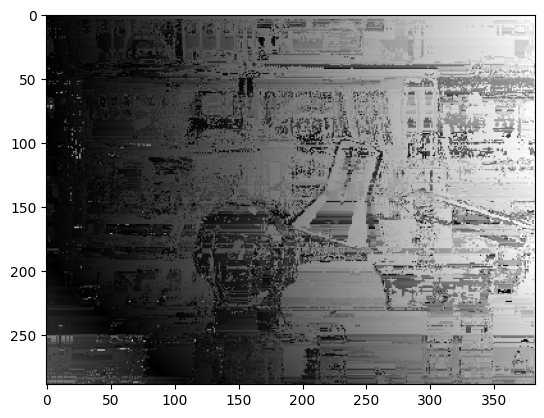
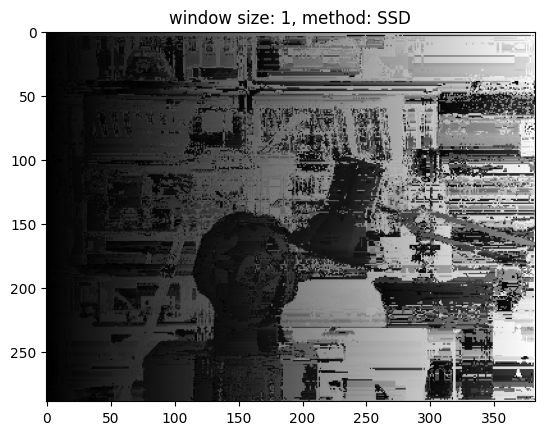
+docs

diff --git a/docs/block-matching.md b/docs/block-matching.md
@@ -1,10 +1,64 @@
 # Block Matching
 
+- [Block Matching](#block-matching)
+  - [Algorithm](#algorithm)
+  - [Parameters](#parameters)
+    - [Window Size](#window-size)
+    - [Search Range](#search-range)
+    - [Method](#method)
+  - [Results](#results)
+    - [First Image](#first-image)
+    - [Second Image](#second-image)
+    - [Third Image](#third-image)
+
 Block matching is a technique used in stereo vision to find the disparity between two images. The disparity is the difference in the horizontal position of a point in the two images. The disparity is used to construct a 3D model of the world.
 
 ## Algorithm
 
 The algorithm for block matching is as follows:
+
+```python
+def block_matching_imp1(imgL, imgR, window_size, method, numDisparities = 32):
+    # imgL and imgR are grayscale images
+    assert imgL.shape == imgR.shape
+    assert imgL.ndim == 2
+    assert imgR.ndim == 2
+    # window_size is the size of the window
+    assert window_size % 2 == 1
+    # numDisparities must be less then the width of the image
+    assert numDisparities < imgL.shape[1]
+    # method is the method used to compute the distance between two pixels
+    # method can be 'SAD' or 'SSD'
+    assert method in ['SAD', 'SSD']
+
+    win_size_over_2 = window_size//2
+    imgLP = np.pad(imgL, win_size_over_2, mode='constant')
+    imgRP = np.pad(imgR, win_size_over_2, mode='constant')
+    disparity = np.zeros(imgL.shape)
+
+    for r in range(win_size_over_2, imgLP.shape[0] - win_size_over_2):
+        for p in range(win_size_over_2, imgLP.shape[1] - win_size_over_2):
+            winL = imgLP[r - win_size_over_2 : r + win_size_over_2 + 1 , p - win_size_over_2 : p + win_size_over_2 + 1].astype('int32')
+            min_index = win_size_over_2
+            min_cost = np.Inf
+
+            for i in range(win_size_over_2, p + 1 - numDisparities if p > numDisparities else 0):
+                winR = imgRP[r - win_size_over_2 : r + win_size_over_2 + 1 , i - win_size_over_2 : i + win_size_over_2 + 1].astype('int32')
+
+                cost = 0
+                if method == 'SAD':
+                    cost = int(np.sum(np.absolute(winL - winR)))
+                elif method == 'SSD':
+                    cost = int(np.sum(np.square(winL - winR)))
+
+                if cost < min_cost:
+                    min_cost = cost
+                    min_index = i
+
+            disparity[r - win_size_over_2, p - win_size_over_2] = np.absolute(p - min_index)
+
+    return disparity
+```
 
 ## Parameters
 
@@ -12,7 +66,65 @@ The parameters for block matching are as follows:
 
 1. window size
 
-1. search range (`numDisparities`)
+    Window size parameter tuning is usually a trade-off between smoothness and detail. A larger window size will give smoother results, but will lose detail. A smaller window size will give more detail, but will be more noisy.
+
+    The following results show the effect of the window size.
+
+    ![window size  = 1][disp-full]
+
+    SAD, window size = 1
+
+    ![window size  = 1][disp-full-ssd]
+
+    SSD, window size = 1
+
+    ![window size  = 5][win-5]
+
+    SAD, window size = 5
+
+    ![window size  = 5][win-5-ssd]
+
+    SSD, window size = 5
+
+    ![window size  = 9][win-9]
+
+    SAD, window size = 9
+
+    ![window size  = 9][win-9-ssd]
+
+    SSD, window size = 9
+
+2. search range (`numDisparities`)
+
+    For each pixel, the search range is the number of pixels to the left and right of the current pixel to search for the best match. A larger search range will give more accurate results, but will be computationally expensive. A smaller search range will give less accurate results, but will be less computationally expensive.
+
+    We search the width of the image in this setup.
+
+    The following results show the effect of the search range.
+
+    ![range  = 10][disp-10]
+
+    SAD, range = 10
+
+    ![range  = 10][disp-10-ssd]
+
+    SSD, range = 10
+
+    ![range  = 100][disp-100]
+
+    SAD, range = 100
+
+    ![range  = 100][disp-100-ssd]
+
+    SSD, range = 100
+
+    ![ Full Range][disp-full]
+
+    SAD, full range
+
+    ![ Full Range][disp-full-ssd]
+
+    SSD, full range
 
 ### Window Size
 
@@ -22,6 +134,113 @@ The window size is the size of the window used to compare the blocks. The window
 
 The search range is the number of disparities to search for. The search range is the number of pixels to the left and right of the current pixel to search for the best match.
 
+### Method
+
+The method is the method used to compute the distance between two pixels. The method can be either `SAD` or `SSD`.
+
+SSD is the sum of the squared differences between the two pixels. SSD is sensitive to intensity offsets.
+SAD is the sum of the absolute differences between the two pixels.
+
+Results in the previous and next sections show the effect of the method.
+
 ## Results
 
+We show the dispaity maps for 3 images with different window sizes and methods.
 
+### First Image
+
+![first image left][img1-l]
+![first image right][img1-r]
+
+![sad window size 1][disp-full]
+
+SAD, window size = 1
+
+![ssd window size 1][disp-full-ssd]
+
+SSD, window size = 1
+
+![sad window size 5][win-5]
+
+SAD, window size = 5
+
+![ssd window size 5][win-5-ssd]
+
+SSD, window size = 5
+
+![sad window size 9][win-9]
+
+SAD, window size = 9
+
+![ssd window size 9][win-9-ssd]
+
+SSD, window size = 9
+
+### Second Image
+
+![second image left][img2-l]
+![second image right][img2-r]
+
+![sad 2 window size 1][sad-2-1]
+![ssd 2 window size 1][ssd-2-1]
+
+![sad 2 window size 5][sad-2-5]
+![ssd 2 window size 5][ssd-2-5]
+
+![sad 2 window size 9][sad-2-9]
+![ssd 2 window size 9][ssd-2-9]
+
+### Third Image
+
+![third image left][img3-l]
+![third image right][img3-r]
+
+![sad 3 window size 1][sad-3-1]
+![ssd 3 window size 1][ssd-3-1]
+
+![sad 3 window size 5][sad-3-5]
+![ssd 3 window size 5][ssd-3-5]
+
+![sad 3 window size 9][sad-3-9]
+![ssd 3 window size 9][ssd-3-9]
+
+<!-- Referrences -->
+
+[disp-10]: ./img/sad-1-10.png
+[disp-100]: ./img/sad-1-100.png
+[disp-10-ssd]: ./img/ssd-1-10.png
+[disp-100-ssd]: ./img/ssd-1-100.png
+[disp-full]: ./img/sad-1-full.png
+[disp-full-ssd]: ./img/ssd-1-full.png
+
+[win-5]: ./img/sad-full-5.png
+[win-5-ssd]: ./img/ssd-full-5.png
+[win-9]: ./img/sad-full-9.png
+[win-9-ssd]: ./img/ssd-full-9.png
+
+[img1-l]: ../imgs/l1.png
+[img1-r]: ../imgs/r1.png
+
+[img2-l]: ../imgs/l2.png
+[img2-r]: ../imgs/r2.png
+
+[img3-l]: ../imgs/l3.png
+[img3-r]: ../imgs/r3.png
+
+[sad-2-1]: ./img/sad-2-1.png
+[ssd-2-1]: ./img/ssd-2-1.png
+
+[sad-2-5]: ./img/sad-2-5.png
+[ssd-2-5]: ./img/ssd-2-5.png
+
+[sad-2-9]: ./img/sad-2-9.png
+[ssd-2-9]: ./img/ssd-2-9.png
+
+[sad-3-1]: ./img/sad-3-1.png
+[ssd-3-1]: ./img/ssd-3-1.png
+
+[sad-3-5]: ./img/sad-3-5.png
+[ssd-3-5]: ./img/ssd-3-5.png
+
+[sad-3-9]: ./img/sad-3-9.png
+[ssd-3-9]: ./img/ssd-3-9.png
